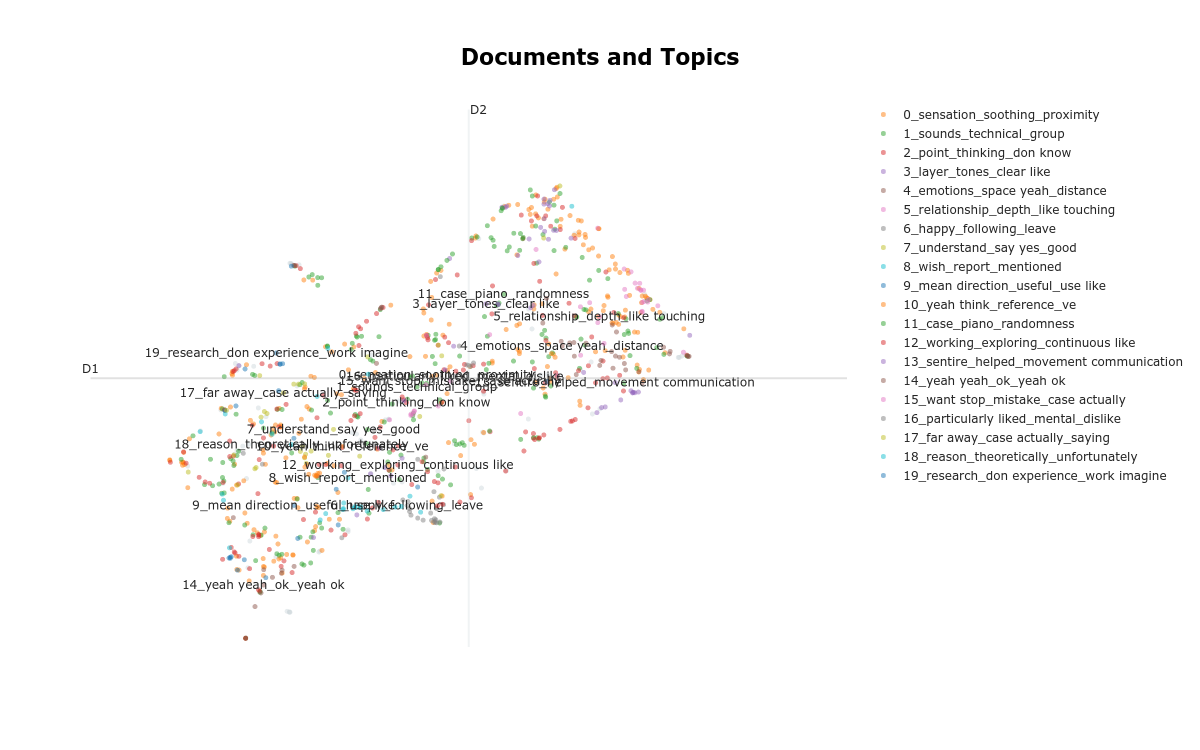
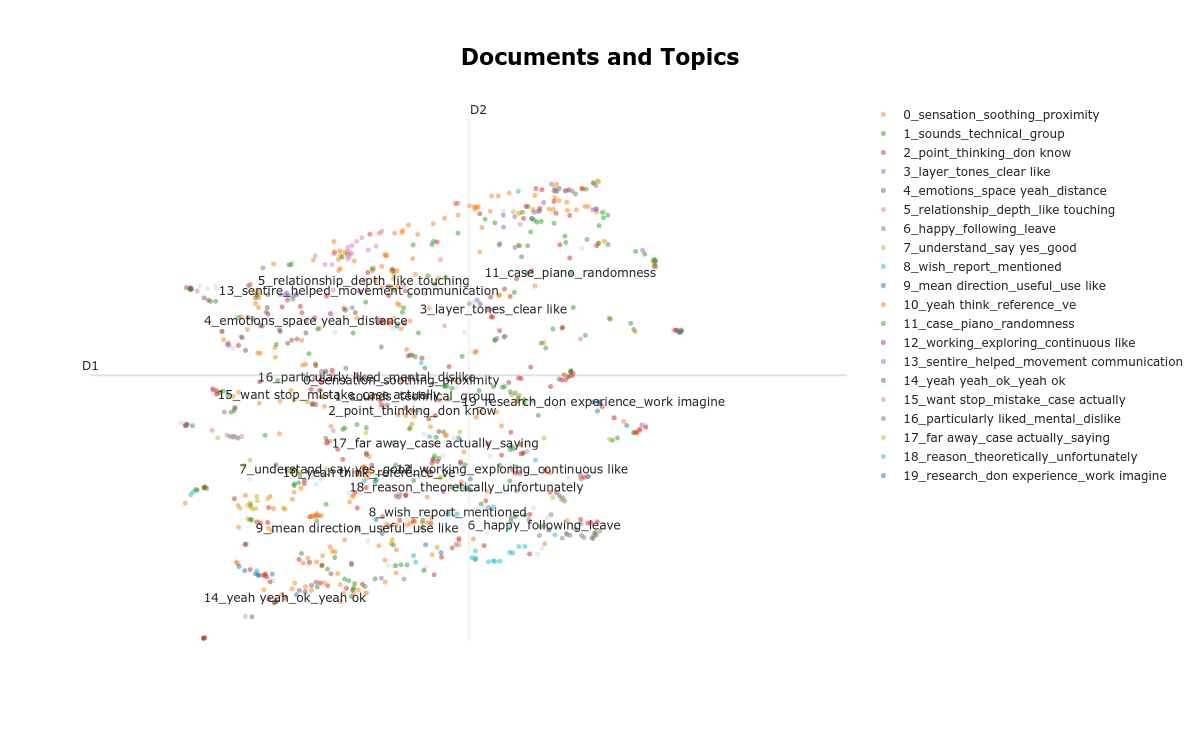
add config file reading functionality

Changed region(s): [[0.1233, 0.2453, 0.6475, 0.828], [0.4008, 0.736, 0.4317, 0.7667]]

diff --git a/01_semi_supervised.py b/01_semi_supervised.py
@@ -3,9 +3,11 @@
 # based on
 # https://maartengr.github.io/BERTopic/getting_started/semisupervised/semisupervised.html
 
+import configparser
 import pandas as pd
 import re
 
+from classes.custom_log_bertopic import BERTopicModified, LoggerToFile
 from bertopic import BERTopic
 from bertopic.representation import MaximalMarginalRelevance, KeyBERTInspired
 from bertopic.vectorizers import ClassTfidfTransformer
@@ -18,8 +20,30 @@ from sklearn.feature_extraction.text import CountVectorizer
 
 from umap import UMAP
 
+
+# Create an instance of the ConfigParser class
+config = configparser.ConfigParser()
+
+# Read the contents of the `config.ini` file:
+config.read('Config/config.ini')
+
+# Access values from the configuration file:
+interview_transcript = config['FILES']['interview_transcript']
+
+# language model
+language_model = config['MODELS']['embedding_model']
+
+# UMAP parameters
+n_neighbors = config['UMAP'].getint('n_neighbors')
+n_components = config['UMAP'].getint('n_components')
+min_dist = config['UMAP'].getfloat('min_dist')
+
+# HDBSCAN parameters
+min_cluster_size = config['HDBSCAN'].getint('min_cluster_size')
+
 # read the transcript
-df = pd.read_csv('Data/01_transcript.txt', sep='\r')
+# df = pd.read_csv('Data/01_transcript.txt', sep='\r')
+df = pd.read_csv(interview_transcript, sep='\r')
 
 # make the dataframe into a list of sentences
 list_of_sentences = df.values.tolist()
@@ -47,15 +71,15 @@ for line in lines:
 
 # Pre-calculate embeddings
 # embedding_model = SentenceTransformer("all-MiniLM-L6-v2")
-embedding_model = SentenceTransformer("WhereIsAI/UAE-Large-V1")
+embedding_model = SentenceTransformer(language_model)
 embeddings = embedding_model.encode(docs, show_progress_bar=True)
 
 # Preventing Stochastic Behavior
-umap_model = UMAP(n_neighbors=17, n_components=3, min_dist=0.0,
-                  metric='cosine', random_state=42)
+umap_model = UMAP(n_neighbors=n_neighbors, n_components=n_components,
+                  min_dist=min_dist, metric='cosine', random_state=42)
 
 # Controlling Number of Topics
-hdbscan_model = HDBSCAN(min_cluster_size=5, metric='euclidean',
+hdbscan_model = HDBSCAN(min_cluster_size=min_cluster_size, metric='euclidean',
                         cluster_selection_method='eom', prediction_data=True)
 
 # Here, we will ignore English stopwords and infrequent words. Moreover, by
@@ -82,6 +106,7 @@ topic_model = BERTopic(
     ctfidf_model=ctfidf_model,
     # Hyperparameters
     top_n_words=10, verbose=True, calculate_probabilities=True
+#    log_to_file=True, log_file_path="my_log_file.log"
 )
 
 topics, probs = topic_model.fit_transform(docs, y=sentence_to_speaker)
